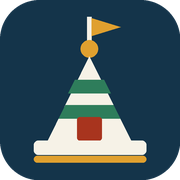
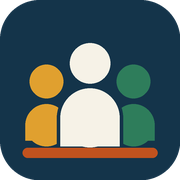
Add files via upload

diff --git a/index.html b/index.html
@@ -310,10 +310,15 @@ td.acts{text-align:right;white-space:nowrap}
 
       <div class="wordmark">
         <span class="chip">
-          <svg width="27" height="27" viewBox="0 0 64 64" aria-hidden="true" fill="#fff">
-            <path d="M31 6h1.6v9H31z"/><path d="M32.6 6.4 43 9.6l-10.4 3.2z"/>
-            <circle cx="31.8" cy="17.4" r="3.1"/><path d="M17 50 31.8 20 46.6 50z"/>
-            <rect x="12" y="50" width="40" height="5" rx="1.6"/>
+          <svg width="28" height="28" viewBox="0 0 64 64" aria-hidden="true">
+            <g fill="#ffffffbf">
+              <circle cx="16.5" cy="29" r="6"/><path d="M9 50v-5.5a7.5 7.5 0 0 1 15 0V50z"/>
+              <circle cx="47.5" cy="29" r="6"/><path d="M40 50v-5.5a7.5 7.5 0 0 1 15 0V50z"/>
+            </g>
+            <g fill="#fff" stroke="#c1521e" stroke-width="2.4" stroke-linejoin="round">
+              <circle cx="32" cy="22.5" r="7.2"/><path d="M21.5 52V42.5a10.5 10.5 0 0 1 21 0V52z"/>
+            </g>
+            <rect x="8" y="52.5" width="48" height="3.6" rx="1.8" fill="#ffffffd9"/>
           </svg>
         </span>
         <b>ମାଳିପାଟଣା</b>
